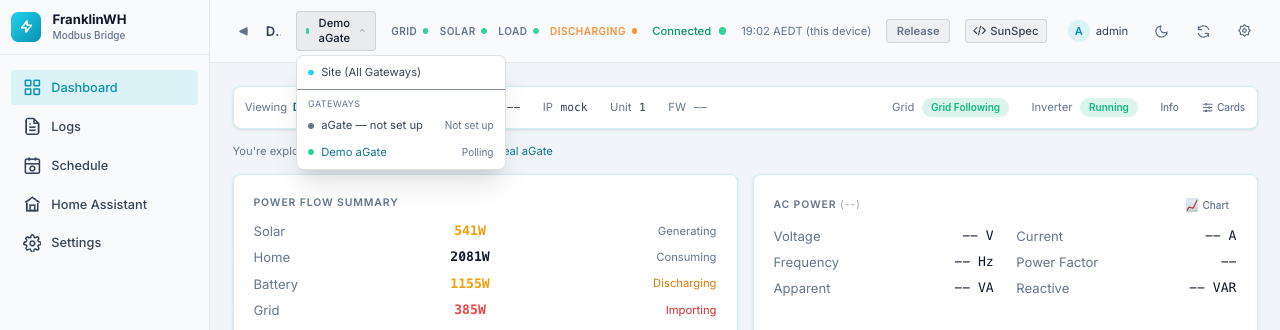
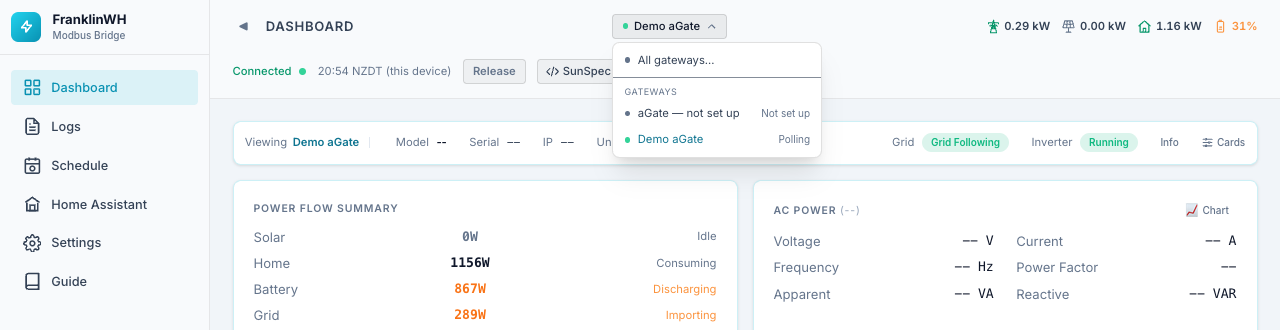
fix: minor bundle for 0.2.49 (#407)
- /api/mqtt/topics names its gateway; /api/status lists every gateway's
  poller and takes ?gateway= (it stays open: it is the health check)
- Settings sends the gateway to both
- serial refused label in the gateway table
- AEMO fetch failure logs the error's name when its text is empty
- log export no longer masks a demo gateway's mock host and serial
- top-bar gateway selector screenshot regenerated

Refs #296

Claude-Session: https://claude.ai/code/session_01Y16KzdPEVsgLsqKASFjb7K

diff --git a/src/franklinwh_bridge/static/js/settings_tab.js b/src/franklinwh_bridge/static/js/settings_tab.js
@@ -186,10 +186,14 @@ function settingsTab() {
     },
 
     async loadAll() {
+      // Both name their gateway (#296 item 43): the poller card shows the
+      // active gateway; the topic list the one picked in the MQTT card.
+      const active = Alpine.store('app').activeGateway;
+      const topicsGw = this.selectedMqttGateway || active;
       const [mqttStatus, appStatus, topics] = await Promise.all([
         fetchJSON('api/mqtt/status'),
-        fetchJSON('api/status'),
-        fetchJSON('api/mqtt/topics'),
+        fetchJSON('api/status?gateway=' + encodeURIComponent(active)),
+        fetchJSON('api/mqtt/topics?gateway=' + encodeURIComponent(topicsGw)),
       ]);
 
       if (mqttStatus && !mqttStatus.error) this.mqtt = mqttStatus;
@@ -204,8 +208,9 @@ function settingsTab() {
         this.mqttGateways = topics.gateways;
         const keep = this.mqttGateways.find(g => g.gateway_id === this.selectedMqttGateway);
         if (!keep) {
-          this.selectedMqttGateway = topics.gateway_id
-            || (this.mqttGateways[0] || {}).gateway_id || '';
+          // The one asked for if it publishes, else the first that does.
+          const asked = this.mqttGateways.find(g => g.gateway_id === topics.gateway_id);
+          this.selectedMqttGateway = (asked || this.mqttGateways[0] || {}).gateway_id || '';
         }
         this.applyMqttGateway();
       } else if (topics && topics.topics) {

diff --git a/src/franklinwh_bridge/templates/tabs/settings.html b/src/franklinwh_bridge/templates/tabs/settings.html
@@ -323,6 +323,11 @@
                 <span x-show="gw.mock" class="text-[9px] uppercase font-semibold ml-1 px-1 py-0.5 rounded bg-purple-500/20 text-purple-300">mock</span>
                 <span x-show="gw.is_default" data-testid="gw-default-chip" title="The default gateway: listed first, and the page opens on it"
                       class="text-[9px] uppercase font-semibold ml-1 px-1 py-0.5 rounded bg-cyan-500/20 text-cyan-300">default</span>
+                <!-- A different aGate answered, or its serial is another gateway's:
+                     the bridge has stopped talking to it. Stays until it's fixed,
+                     not only in the pop-up; hover for the reason. -->
+                <span x-show="gw.serial_refused" data-testid="gw-serial-refused" :title="gw.serial_refused"
+                      class="text-[9px] uppercase font-semibold ml-1 px-1 py-0.5 rounded bg-red-500/20 text-red-300">serial refused</span>
                 <span x-show="gw.description && gw.health !== 'unconfigured'" class="text-[10px] text-slate-600 ml-1" x-text="'— ' + gw.description"></span>
               </td>
               <td class="font-mono" :class="gw.health === 'unconfigured' ? 'text-amber-400' : 'text-slate-400'"

diff --git a/tests/unit/test_mqtt_api.py b/tests/unit/test_mqtt_api.py
@@ -169,7 +169,7 @@ async def test_mqtt_detect_broker_dev_mode(client):
 
 
 async def test_mqtt_topics_no_device_info(client):
-    resp = await client.get("/api/mqtt/topics")
+    resp = await client.get("/api/mqtt/topics?gateway=default")
     assert resp.status_code == 200
     data = resp.json()
     assert data["topics"] == [] or "note" in data
@@ -179,7 +179,7 @@ async def test_mqtt_topics_with_device_info(client):
     publisher = app.state.mqtt_publisher
     publisher.set_device_info(DeviceInfo(serial="10060006A02F00000001"))
 
-    resp = await client.get("/api/mqtt/topics")
+    resp = await client.get("/api/mqtt/topics?gateway=default")
     assert resp.status_code == 200
     data = resp.json()
     assert data["short_id"] == "00000001"
@@ -192,6 +192,21 @@ async def test_mqtt_topics_with_device_info(client):
     # Verify source annotation is included in API response
     soc_topic = next(t for t in topics if t["slug"] == "battery_soc")
     assert soc_topic["source"] == "713.SoC"
+
+
+async def test_mqtt_topics_names_its_gateway(client):
+    """#296 item 43: no silent fallback to the first gateway."""
+    app.state.mqtt_publisher.set_device_info(DeviceInfo(serial="10060006A02F00000001"))
+    resp = await client.get("/api/mqtt/topics")
+    assert resp.status_code == 400
+    assert "names no gateway: add ?gateway=" in resp.json()["detail"]
+    assert (await client.get("/api/mqtt/topics?gateway=nope")).status_code == 404
+    # A gateway that exists but isn't publishing: its own (empty) topics, not another's.
+    await client.post("/api/gateways", json={"gateway_id": "gw2", "name": "Two",
+                                             "host": "192.0.2.2"})
+    data = (await client.get("/api/mqtt/topics?gateway=gw2")).json()
+    assert (data["gateway_id"], data["topics"], data["entity_count"]) == ("gw2", [], 0)
+    assert [g["gateway_id"] for g in data["gateways"]] == ["default"]
 
 
 async def test_mqtt_test_connection_api(client):

diff --git a/src/franklinwh_bridge/api/mqtt_api.py b/src/franklinwh_bridge/api/mqtt_api.py
@@ -12,6 +12,7 @@ from fastapi import APIRouter, Depends, HTTPException, Request
 from pydantic import BaseModel, Field
 
 from franklinwh_bridge.api.auth import get_current_user
+from franklinwh_bridge.api.gateway_ref import named_gateway
 from franklinwh_bridge.config.environment import detect_environment
 from franklinwh_bridge.config.mqtt_broker import ENV_VARS, env_values, resolve_broker
 from franklinwh_bridge.config.supervisor import discover_mqtt
@@ -280,6 +281,9 @@ async def test_connection(request: Request):
 
 @router.get("/topics")
 async def get_topics(request: Request):
+    # Names its gateway like every other route (#296 item 43): `topics` and
+    # `short_id` describe that gateway; `gateways` still lists every one.
+    wanted = await named_gateway(request, request.query_params.get("gateway"), "?gateway=")
     publisher = getattr(request.app.state, "mqtt_publisher", None)
     if publisher is None:
         return {"topics": []}
@@ -343,11 +347,10 @@ async def get_topics(request: Request):
     if not gateways:
         return {"topics": [], "gateways": [], "note": "No device info set yet"}
 
-    # Back-compat: `topics`/`short_id` keep describing ONE gateway — the one
-    # asked for, else the default — so existing callers are unaffected while
-    # `gateways` carries the full picture.
-    wanted = request.query_params.get("gateway")
-    sel = next((g for g in gateways if g["gateway_id"] == wanted), None) or gateways[0]
+    # `topics`/`short_id` describe the gateway asked for; one that isn't
+    # publishing has none (it used to fall back to the first gateway).
+    sel = next((g for g in gateways if g["gateway_id"] == wanted), None) or {
+        "gateway_id": wanted, "short_id": None, "entity_count": 0, "topics": []}
 
     return {
         "short_id": sel["short_id"],

diff --git a/tests/unit/test_api.py b/tests/unit/test_api.py
@@ -46,6 +46,32 @@ async def test_status(client):
     assert "mqtt" in data["components"]
 
 
+async def test_status_lists_every_gateway_and_names_one_on_request(client):
+    """#296 item 43: the poller component is every gateway, not 'default' alone.
+    No gateway named still answers: it is the add-on's health check."""
+    poller = (await client.get("/api/status")).json()["components"]["poller"]
+    assert isinstance(poller["gateways"], dict) and "status" not in poller
+    named = (await client.get("/api/status?gateway=default")).json()["components"]["poller"]
+    assert named["gateway_id"] == "default"
+    assert named["status"] == named["gateways"].get("default", {"status": "not_running"})["status"]
+    assert (await client.get("/api/status?gateway=nope")).status_code == 404
+    assert (await client.get("/api/status?gateway=a%01b")).status_code == 422
+
+
+async def test_status_reports_a_demo_gateway(client):
+    """A demo's poller state has only last_poll_ts; that must not break the component."""
+    from franklinwh_bridge.main import app
+
+    resp = await client.post("/api/gateways", json={"gateway_id": "demo", "name": "Demo",
+                                                    "mock": True})
+    assert resp.status_code == 201
+    poller = (await client.get("/api/status?gateway=demo")).json()["components"]["poller"]
+    assert "error" not in poller, poller
+    assert poller["gateway_id"] == "demo"
+    assert poller["status"] == ("running" if app.state.registry.get("demo").status.connected
+                                else "disconnected")
+
+
 async def test_connectivity_endpoint(client):
     resp = await client.get("/api/health/connectivity")
     assert resp.status_code == 200

diff --git a/src/franklinwh_bridge/main.py b/src/franklinwh_bridge/main.py
@@ -1217,17 +1217,26 @@ async def lifespan(app: FastAPI):
 
 
 def _poller_health(registry: GatewayRegistry) -> dict:
-    """Build health data for the poller component."""
-    default = registry.get("default")
-    if default and default.poller:
-        p = default.poller
-        return {
-            "status": "running" if p.state.connected else "disconnected",
-            "polls_total": p.state.polls_total,
-            "last_poll_ts": p.state.last_poll_ts,
-            "last_error": p.state.last_error,
+    """Health data for the poller component: every gateway, by ID. It used to
+    describe the gateway with ID 'default' only (#296 item 43);
+    ``/api/status?gateway=`` picks one."""
+    gateways: dict[str, dict] = {}
+    for gw_id in registry.list_all():
+        inst = registry.get(gw_id)
+        p = inst.poller if inst else None
+        if p is None:
+            gateways[gw_id] = {"status": "not_running"}
+            continue
+        # A demo gateway's poller state carries only last_poll_ts: take
+        # "connected" from the gateway's own status, and leave what it lacks empty.
+        connected = getattr(p.state, "connected", inst.status.connected)
+        gateways[gw_id] = {
+            "status": "running" if connected else "disconnected",
+            "polls_total": getattr(p.state, "polls_total", None),
+            "last_poll_ts": getattr(p.state, "last_poll_ts", None),
+            "last_error": getattr(p.state, "last_error", None) or inst.status.last_error,
         }
-    return {"status": "not_configured"}
+    return {"gateways": gateways}
 
 
 app = FastAPI(

diff --git a/src/franklinwh_bridge/api/health.py b/src/franklinwh_bridge/api/health.py
@@ -10,6 +10,7 @@ from fastapi import APIRouter, Depends, Request
 
 from franklinwh_bridge import __version__, workers
 from franklinwh_bridge.api.auth import require_auth
+from franklinwh_bridge.api.gateway_ref import named_gateway
 from franklinwh_bridge.store import alerts as alert_store
 
 router = APIRouter(tags=["health"])
@@ -69,7 +70,12 @@ async def health_workers() -> dict[str, Any]:
 
 
 @router.get("/api/status")
-async def status(request: Request):
+async def status(request: Request, gateway: str | None = None):
+    """The bridge's status. Answers with no gateway named: it is the add-on's
+    health check. The poller component lists every gateway; ``?gateway=``
+    (ID or serial) adds that gateway's poller as the flat fields (#296 item 43:
+    no silent fallback to the gateway with ID 'default')."""
+    gw_id = None if gateway is None else await named_gateway(request, gateway, "?gateway=")
     config = getattr(request.app.state, "config", None)
     env = config.environment if config else "unknown"
 
@@ -82,6 +88,11 @@ async def status(request: Request):
             states[name] = result
         except Exception as exc:
             states[name] = {"error": str(exc)}
+
+    poller = states.get("poller")
+    if gw_id is not None and isinstance(poller, dict):
+        poller.update({"gateway_id": gw_id,
+                       **(poller.get("gateways") or {}).get(gw_id, {"status": "not_running"})})
 
     return {
         "status": "ok",

diff --git a/tests/unit/test_log_export.py b/tests/unit/test_log_export.py
@@ -35,6 +35,20 @@ def test_redactor_masks_serials_and_ips_only():
     assert red.lines_changed == 2
 
 
+def test_a_demo_gateway_is_not_masked():
+    """Its "mock" host and MOCK-DEMO serial identify no one; masking them hid every
+    "mock" and "MOCK" in the export. A real gateway beside it still is masked."""
+    known = log_export.known_identifiers([
+        {"id": "demo", "host": "mock", "serial": "MOCK-DEMO", "mock": 1},
+        {"id": "gw1", "host": "192.0.2.10", "serial": SERIAL},
+    ])
+    red = log_export.Redactor(known)
+    line = "Gateway demo: connected to mock (serial MOCK-DEMO, firmware MOCK)"
+    assert red(line) == line
+    assert red(f"Connected to aGate {SERIAL} at 192.0.2.10:502") == (
+        "Connected to aGate <serial> at <ip>:502")
+
+
 @pytest.fixture
 async def client(tmp_path, monkeypatch):
     monkeypatch.setenv("ALLOW_INSECURE_AUTH", "1")

diff --git a/tests/unit/test_aemo_nem.py b/tests/unit/test_aemo_nem.py
@@ -154,6 +154,16 @@ async def test_failure_returns_stale_then_none_never_raises():
     assert out["stale"] is True and out["price_c_kwh"] == 12.35
 
 
+async def test_failure_with_no_text_still_says_why(caplog):
+    """A timeout's text is empty: the log line named no reason at all."""
+    async def timeout() -> dict:
+        raise httpx.ReadTimeout("")
+
+    caplog.set_level("WARNING", logger="franklinwh_bridge.gateway.aemo_nem")
+    assert await NemSpotClient(fetcher=timeout).spot_price("NSW1") is None
+    assert "AEMO NEM fetch failed: ReadTimeout" in caplog.text
+
+
 async def test_region_missing_from_response_is_none():
     c = NemSpotClient(fetcher=_Fetcher(_summary()))
     assert await c.spot_price("TAS1") is None

diff --git a/src/franklinwh_bridge/gateway/aemo_nem.py b/src/franklinwh_bridge/gateway/aemo_nem.py
@@ -197,7 +197,8 @@ class NemSpotClient:
                     return fresh[1]
                 logger.warning("AEMO NEM summary has no price for %s", region)
             except Exception as exc:
-                logger.warning("AEMO NEM fetch failed: %s", exc)
+                # A timeout's text is empty: name the exception so the log says why.
+                logger.warning("AEMO NEM fetch failed: %s", str(exc) or type(exc).__name__)
             return {**hit[1], "stale": True} if hit else None
 
     def cached(self, region: str | None, *, max_age_s: float | None = None) -> dict | None:

diff --git a/src/franklinwh_bridge/support/log_export.py b/src/franklinwh_bridge/support/log_export.py
@@ -35,6 +35,10 @@ def known_identifiers(gateways: Iterable[Mapping[str, Any]],
     serials: list[Any] = []
     known: dict[str, str] = {}
     for g in gateways:
+        if g.get("mock"):
+            # A demo gateway's "mock" host and MOCK-DEMO serial identify no one;
+            # masking them also hid every "mock" and "MOCK" in the log.
+            continue
         serials.append(g.get("serial"))
         inst = registry.get(g.get("id")) if registry is not None else None
         if inst is not None:

diff --git a/CHANGELOG.md b/CHANGELOG.md
@@ -23,6 +23,29 @@ lands, not backfilled later.
   them off (`status_notices` in `GET/PUT /api/alerts/settings`, whose fields are now
   each optional).
 
+### Changed
+
+- **`/api/mqtt/topics` names its gateway** (`?gateway=`; `400` without one), like the
+  other routes (#296 item 43). Its flat `topics` are that gateway's, empty if it isn't
+  publishing; it used to fall back to the first gateway.
+- **`/api/status` no longer describes only the gateway with ID `default`:** its poller
+  component lists every gateway by ID, and `?gateway=` adds one as the flat fields. It
+  still answers with no gateway named, since it is the add-on's health check.
+- **Settings → Site & Gateways:** a gateway the bridge has refused (a different aGate
+  answered, or its serial is another gateway's) shows a red **serial refused** label in
+  the table, with the reason on hover. It used to show only in the pop-up.
+- The REST API reference (`docs/dev/api-reference.md`, `openapi.json`) is regenerated
+  for this version.
+- The docs' top-bar gateway selector screenshot shows the current selector (All gateways…, each gateway with its state).
+
+### Fixed
+
+- **AEMO price fetch failures logged no reason** when the error had no text (a
+  timeout): the log now names the error.
+- **Log export over-masked the demo gateway:** its `mock` host and `MOCK-DEMO` serial
+  were masked, so every "mock" and "MOCK" in the export became a placeholder. A demo
+  gateway identifies no one and is no longer masked; real serials and addresses still are.
+
 ## [0.2.48] — 2026-10-30
 
 ### Added
